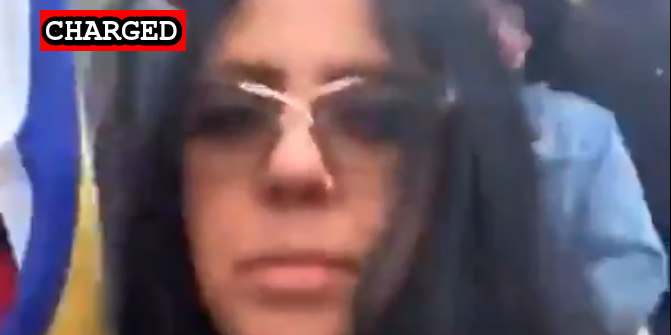
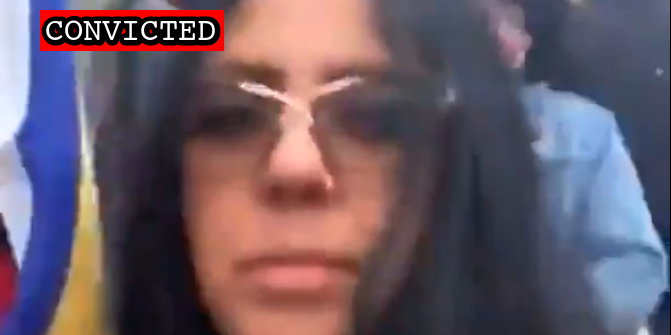
Latest import

Changed region(s): [[0.0596, 0.0299, 0.3577, 0.1493]]

diff --git a/docs/_suspects/adam-johnson.md b/docs/_suspects/adam-johnson.md
@@ -4,15 +4,15 @@ lastName: Johnson
 hashtag: LecternGuy
 aka:
 residence: Florida
-status: Charged
+status: Convicted
 date: 2021-01-07
 charged: 2021-01-07
 indicted:
-convicted:
+convicted: 2021-11-22
 sentenced:
 dismissed:
 deceased:
-plea_hearing:
+plea_hearing: 2021-11-22
 sentencing:
 age: 36
 occupation:
@@ -34,11 +34,16 @@ published: true
 caseNumber: 1:21-mj-20
 videos:
 charges:
+  - code: 18 USC § 1752(a)(1)
+    title: Entering a restricted building or grounds
+    url: https://www.law.cornell.edu/uscode/text/18/1752
+    felony: false
 sentence:
 ---
 
 - [News Report](https://www.msn.com/en-us/news/world/adam-johnson-spotted-with-pelosis-lectern-stormed-capitol-to-witness-history-e2-80-94lawyers/ar-BB1cH0ZJ)
 - [DOJ Press Release](https://www.justice.gov/usao-dc/pr/three-men-charged-connection-events-us-capitol)
 - [Information](https://extremism.gwu.edu/sites/g/files/zaxdzs2191/f/Andrew%20Johnson%20Information.pdf)
-- [Statement of Facts](https://www.justice.gov/usao-dc/press-release/file/1351951/download)
+- [Statement of Facts](https://www.justice.gov/usao-dc/case-multi-defendant/file/1452271/download)
 - [Complaint](https://www.justice.gov/opa/page/file/1355516/download)
+- [Plea Agreement](https://www.justice.gov/usao-dc/case-multi-defendant/file/1452266/download)

diff --git a/docs/_suspects/mariposa-castro.md b/docs/_suspects/mariposa-castro.md
@@ -4,15 +4,15 @@ lastName: Castro
 hashtag: MariposaCastro
 aka: Imelda Castro
 residence: California
-status: Charged
+status: Convicted
 date: 2021-02-09
 charged: 2021-02-09
 indicted:
-convicted: 
+convicted: 2021-11-24
 sentenced: 
 dismissed: 
 deceased:
-plea_hearing:
+plea_hearing: 2021-11-24
 sentencing:
 age:
 occupation: Owner, Yoga Studio
@@ -34,10 +34,15 @@ published: true
 caseNumber: 1:21-cr-299
 videos:
 charges:
+- code: 18 USC § 5104(e)(2)(G)
+  title: Parading, demonstrating or picketing in a Capitol building
+  url: https://www.law.cornell.edu/uscode/text/40/5104
+  felony: false
 sentence:
 ---
 - [News Report](https://www.ktvu.com/news/gilroy-woman-charged-in-capitol-riot)
 - [Self Incrimination (VIDEO)](https://twitter.com/henrykleeKTVU/status/1360386497577275394)
 - [Complaint](https://extremism.gwu.edu/sites/g/files/zaxdzs2191/f/Mariposa%20Castro%20Criminal%20Complaint.pdf)
-- [Statement of Facts](https://www.justice.gov/usao-dc/case-multi-defendant/file/1371311/download)
+- [Statement of Facts](https://www.justice.gov/usao-dc/case-multi-defendant/file/1452321/download)
 - [Information](https://www.justice.gov/usao-dc/case-multi-defendant/file/1387496/download)
+- [Plea Agreement](https://www.justice.gov/usao-dc/case-multi-defendant/file/1452316/download)

diff --git a/docs/_suspects/justin-mcauliffe.md b/docs/_suspects/justin-mcauliffe.md
@@ -34,15 +34,14 @@ published: true
 caseNumber: 1:21-mj-135
 videos:
 charges:
-  - code: 18 USC § 5104(e)(2)(G)
-    title: Parading, demonstrating or picketing in a Capitol building
-    url: https://www.law.cornell.edu/uscode/text/40/5104
-    felony: false
+- code: 18 USC § 5104(e)(2)(G)
+  title: Parading, demonstrating or picketing in a Capitol building
+  url: https://www.law.cornell.edu/uscode/text/40/5104
+  felony: false
 sentence:
 ---
-
 - [News Report](https://nypost.com/2021/01/28/cpa-justin-mcauliffe-busted-for-role-in-deadly-capitol-riot/)
 - [Complaint](https://www.justice.gov/opa/page/file/1361466/download)
-- [Statement of Facts](https://www.justice.gov/opa/page/file/1361466/download)
+- [Statement of Facts](https://www.justice.gov/usao-dc/case-multi-defendant/file/1452301/download)
 - [Information](https://extremism.gwu.edu/sites/g/files/zaxdzs2191/f/Justin%20McAuliffe%20Information.pdf)
-- [Plea Agreement](https://extremism.gwu.edu/sites/g/files/zaxdzs2191/f/Justin%20McAuliffe%20Plea%20Agreement.pdf)
+- [Plea Agreement](https://www.justice.gov/usao-dc/case-multi-defendant/file/1452296/download)

diff --git a/docs/_suspects/james-lollis.md b/docs/_suspects/james-lollis.md
@@ -31,7 +31,7 @@ description: Click for latest case details. Suspects innocent until proven guilt
 author: seditiontrack
 layout: suspect
 published: true
-caseNumber:
+caseNumber: 1:21-cr-671
 videos:
 charges:
 - code: 18 USC § 5104(e)(2)(G)
@@ -41,6 +41,6 @@ charges:
 sentence:
 ---
 - [News Report](https://www.foxcarolina.com/news/fbi-upstate-man-arrested-for-taking-part-in-riot-at-u-s-capitol-building/article_2eec20da-10eb-11ec-855b-f7b78801b6b8.html)
-- [Statement of Facts](https://extremism.gwu.edu/sites/g/files/zaxdzs2191/f/James%20Douglas%20Lollis%20Jr%20Criminal%20Complaint%20and%20Statement%20of%20Facts.pdf)
-- [Plea Agreement](https://storage.courtlistener.com/recap/gov.uscourts.dcd.237457/gov.uscourts.dcd.237457.18.0_1.pdf)
+- [Statement of Facts](https://www.justice.gov/usao-dc/case-multi-defendant/file/1452331/download)
+- [Plea Agreement](https://www.justice.gov/usao-dc/case-multi-defendant/file/1452326/download)
 - [Information](https://extremism.gwu.edu/sites/g/files/zaxdzs2191/f/James%20Douglas%20Lollis%20Jr%20Information.pdf)

diff --git a/docs/_suspects/micajah-jackson.md b/docs/_suspects/micajah-jackson.md
@@ -42,6 +42,6 @@ sentence:
 ---
 - [News Report](https://www.azcentral.com/story/news/local/phoenix/2021/05/19/micajah-jackson-arizona-faces-federal-charges-us-capitol-riot/5164968001/)
 - [Complaint](https://www.justice.gov/usao-dc/case-multi-defendant/file/1395286/download)
-- [Statement of Facts](https://www.justice.gov/usao-dc/case-multi-defendant/file/1395291/download)
+- [Statement of Facts](https://www.justice.gov/usao-dc/case-multi-defendant/file/1452291/download)
 - [Information](https://www.justice.gov/usao-dc/case-multi-defendant/file/1415801/download)
-- [Plea Agreement](https://extremism.gwu.edu/sites/g/files/zaxdzs2191/f/Micajah%20Joel%20Jackson%20Plea%20Agreement.pdf)
+- [Plea Agreement](https://www.justice.gov/usao-dc/case-multi-defendant/file/1452286/download)

diff --git a/docs/_suspects/nicole-prado.md b/docs/_suspects/nicole-prado.md
@@ -42,5 +42,5 @@ sentence:
 ---
 - [News Report](https://www.wusa9.com/article/news/national/capitol-riots/meet-the-new-congresswoman-friends-instagram-post-leads-to-womans-capitol-riot-arrest-nicole-prado-trump-gaithersburg/65-f436d15e-6d06-462d-9a94-5ac2d9ea4e11)
 - [Information](https://www.justice.gov/usao-dc/case-multi-defendant/file/1404496/download)
-- [Statement of Facts](https://www.justice.gov/opa/case-multi-defendant/file/1404706/download)
-- [Plea Agreement](https://extremism.gwu.edu/sites/g/files/zaxdzs2191/f/Nicole%20Prado%20Plea%20Agreement.pdf)
+- [Statement of Facts](https://www.justice.gov/usao-dc/case-multi-defendant/file/1452281/download)
+- [Plea Agreement](https://www.justice.gov/usao-dc/case-multi-defendant/file/1452276/download)
